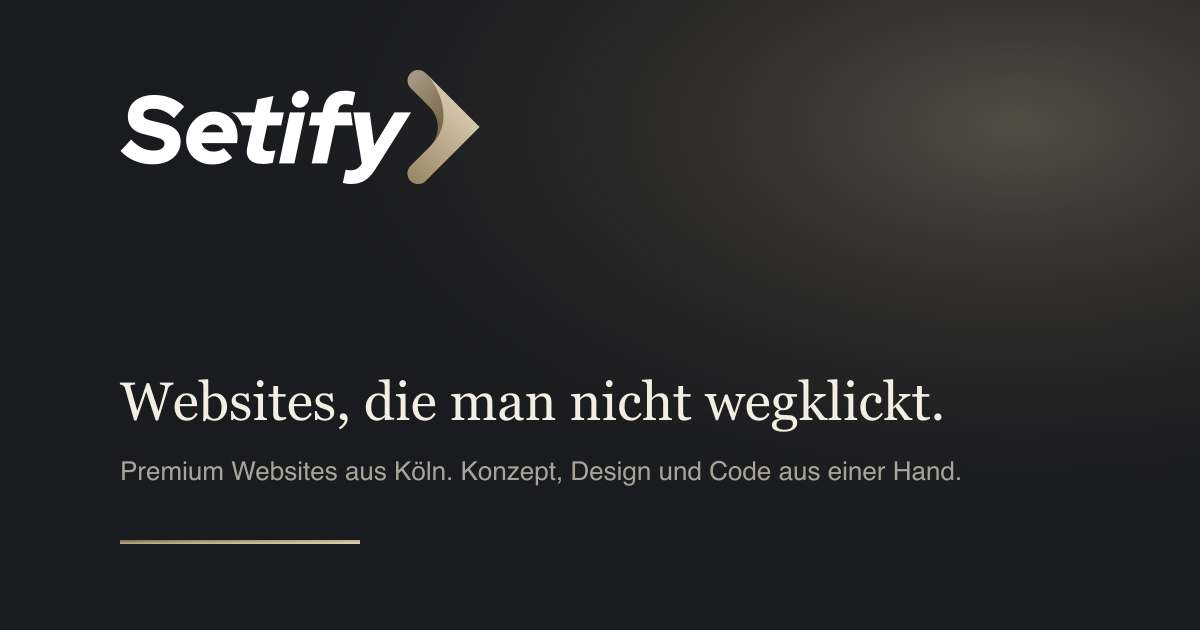
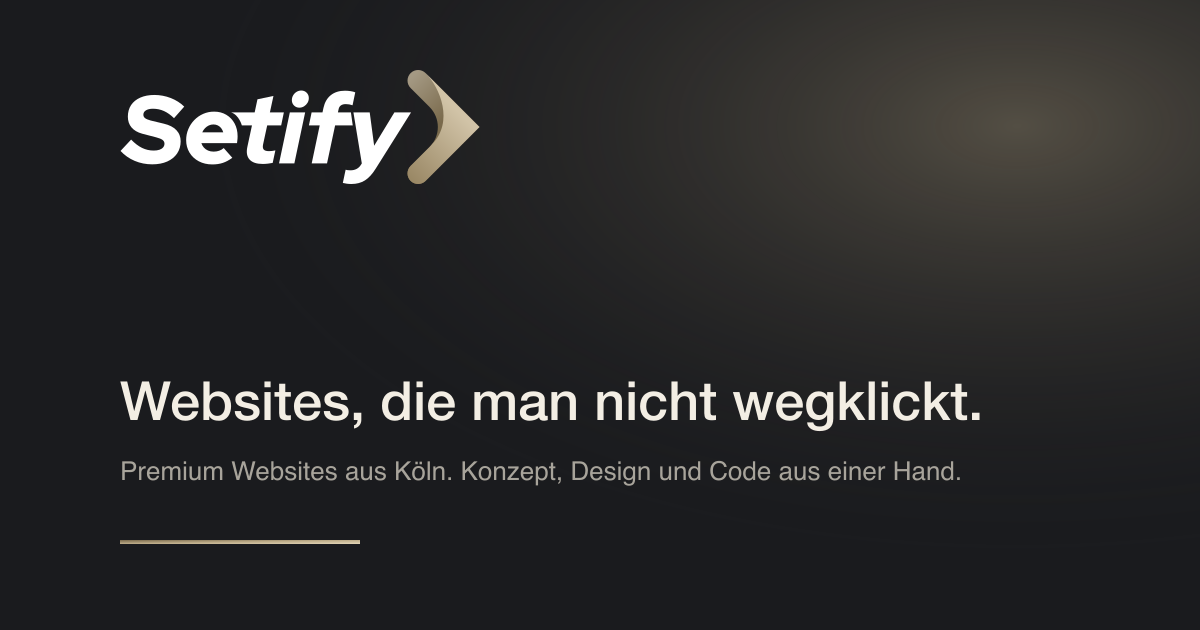
feat: Space Grotesk statt Fraunces fuer Headlines
Nur Sans-Serif gewuenscht. Space Grotesk fuer Display und Headlines,
Manrope bleibt fuer Text. OG-Bild und Mail-Template ohne Serife.

Changed region(s): [[0.0925, 0.6032, 0.8017, 0.6937]]

diff --git a/src/styles/global.css b/src/styles/global.css
@@ -1,5 +1,5 @@
 @import './tokens.css';
-@import '@fontsource-variable/fraunces/full.css';
+@import '@fontsource-variable/space-grotesk';
 @import '@fontsource-variable/manrope';
 @import 'lenis/dist/lenis.css';
 
@@ -33,15 +33,14 @@ body {
 
 .font-display {
   font-family: var(--font-display);
-  font-optical-sizing: auto;
-  font-variation-settings: 'SOFT' 30, 'WONK' 0;
-  letter-spacing: -0.02em;
+  letter-spacing: -0.035em;
+  font-feature-settings: 'ss01';
 }
 
-.text-display { font-size: var(--text-display); line-height: 0.95; font-weight: 300; }
-.text-h1 { font-size: var(--text-h1); line-height: 1; font-weight: 400; }
-.text-h2 { font-size: var(--text-h2); line-height: 1.05; font-weight: 400; }
-.text-h3 { font-size: var(--text-h3); line-height: 1.15; font-weight: 500; }
+.text-display { font-size: var(--text-display); line-height: 0.95; font-weight: 500; }
+.text-h1 { font-size: var(--text-h1); line-height: 1; font-weight: 500; }
+.text-h2 { font-size: var(--text-h2); line-height: 1.05; font-weight: 500; }
+.text-h3 { font-size: var(--text-h3); line-height: 1.15; font-weight: 600; letter-spacing: -0.02em; }
 .text-lead { font-size: var(--text-lead); line-height: 1.5; }
 
 .container {

diff --git a/src/lib/mail.ts b/src/lib/mail.ts
@@ -52,7 +52,7 @@ function layout(title: string, body: string): string {
 <tr><td style="height:4px;background:linear-gradient(90deg,#7a6a4c,#bdac89,#e3d6b8)"></td></tr>
 <tr><td style="padding:32px">
 <p style="margin:0 0 8px;font-size:12px;letter-spacing:.14em;text-transform:uppercase;color:#7a6a4c;font-weight:700">setify</p>
-<h1 style="margin:0 0 24px;font-family:Georgia,serif;font-weight:400;font-size:26px;line-height:1.2">${title}</h1>
+<h1 style="margin:0 0 24px;font-family:Helvetica Neue,Helvetica,Arial,sans-serif;font-weight:600;font-size:26px;line-height:1.2">${title}</h1>
 ${body}
 <p style="margin:32px 0 0;font-size:12px;color:#6b665c">setify, Philipp Walter, Linder Weg 16a, 51147 Köln, mail@setify.de</p>
 </td></tr></table></td></tr></table></body></html>`;

diff --git a/src/styles/tokens.css b/src/styles/tokens.css
@@ -13,7 +13,7 @@
   --color-ink-muted: #6b665c;
   --color-paper-muted: #a8a49b;
 
-  --font-display: 'Fraunces Variable', 'Georgia', serif;
+  --font-display: 'Space Grotesk Variable', 'Helvetica Neue', Arial, sans-serif;
   --font-sans: 'Manrope Variable', system-ui, sans-serif;
 
   --text-display: clamp(3rem, 2rem + 5vw, 6rem);

diff --git a/docs/superpowers/specs/2026-09-07-setify-website-relaunch-design.md b/docs/superpowers/specs/2026-09-07-setify-website-relaunch-design.md
@@ -44,7 +44,7 @@ Regeln: Gold nie flächig als Hintergrund ganzer Sektionen. Sektionen wechseln z
 
 | Rolle | Font | Gewichte | Details |
 |---|---|---|---|
-| Headlines | Fraunces (variable) | 300 bis 600 | Optische Größe aktiv, Letterspacing -0.02em, Zeilenhöhe 0.95 bis 1.05 |
+| Headlines | Space Grotesk (variable) | 500 bis 600 | Letterspacing -0.035em, Zeilenhöhe 0.95 bis 1.05 (Fraunces am 2026-09-08 ersetzt, Wunsch: nur Sans) |
 | Text, UI | Manrope (variable) | 400 bis 700 | Zeilenhöhe 1.6 |
 | Labels, Zahlen | Manrope | 600 | Uppercase, Letterspacing 0.12em, 12 bis 13 px |
 
